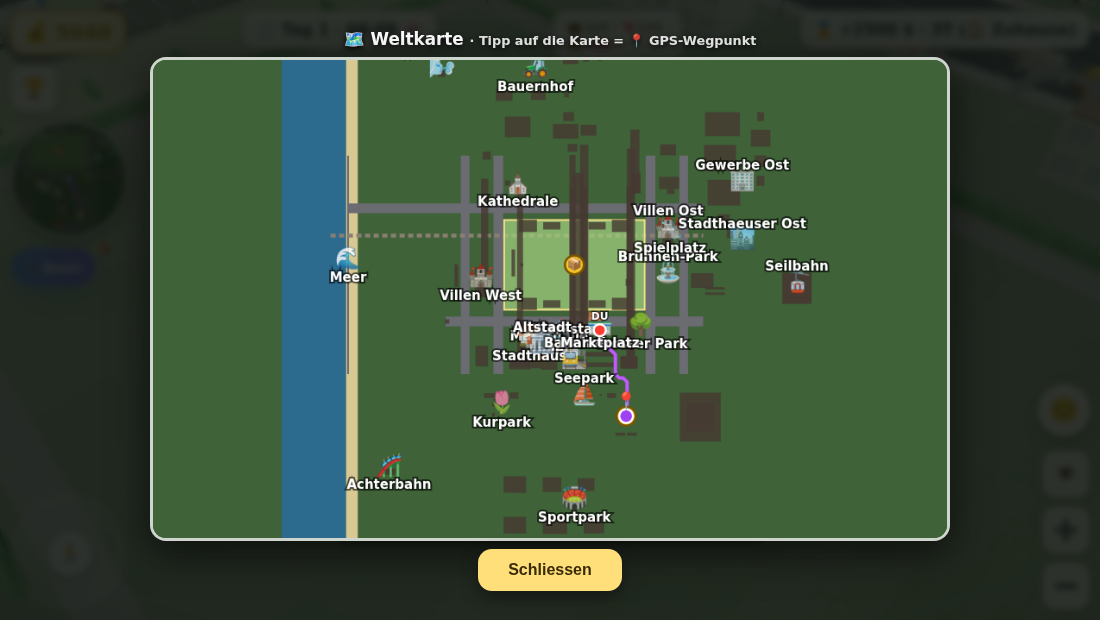
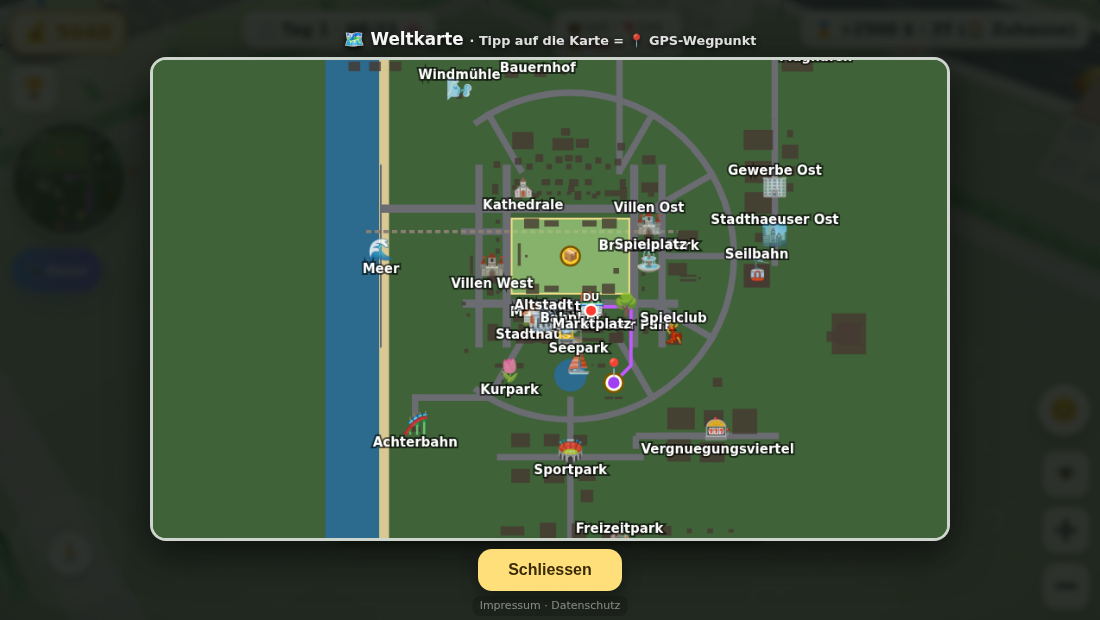
Die Mission, bei der man nicht wusste WANN (#2417) (#2417)
Statt wieder zu prüfen, die Missionen einmal wie ein Spieler durchgesehen.

ERST ZWEI ENTWARNUNGEN, BEIDE GEMESSEN

Alle 13 Missions-Zähler werden irgendwo erhöht — keine Mission ist
unerfüllbar. Und 11 von 13 haben einen Kartenmarker; die zwei ohne
(Emotes, Strassenmusik) sind es zu Recht, der Kommentar im Code sagt das
seit Langem.

DER BEFUND LIEGT GENAU DAZWISCHEN

Die Strassenmusik ist die einzige Mission mit einem Zeitfenster
(buskAvailable: 17-21 Uhr) — UND die einzige ohne Ort. Wer sie morgens
zieht, sieht die Aufgabe, keinen Marker, und findet den Knopf nirgends.
Es gab keine Stelle im Spiel, an der "ab 17 Uhr" stand.

Die Aufgabe sagt WAS, der Marker sagt WO — und WANN sagte niemand.

Jetzt steht das Fenster im Missionstext: "Spiele 1 perfekte
Strassenmusik-Show (17–21 Uhr)". Dort schaut der Spieler ohnehin hin.
Der Text wird beim Anlegen in den Spielstand kopiert; laufende Tage
behalten den alten, ab dem nächsten Tageswechsel steht das Fenster drin.

STEHENDE PRÜFUNG STATT EINMAL-BLICK

th-missmap.mjs prüft jetzt bei jedem Lauf, dass jede Mission einen Ort
hat — oder in einer Ausnahmeliste mit GRUND steht. Und die Gegenrichtung:
eine Ausnahme, die es nicht mehr braucht, wird gemeldet, damit die Liste
nicht verrottet.

Gegenprobe: einen Ort testweise aus MISS_ORTE entfernt → rot, mit
Namensnennung ("4 🛹 Lande {n} Airtime-Sprünge"), 9 ok / 1 Fehler.

th-missmap: 10 ok, 0 Fehler, 0 JS-Fehler.

Claude-Session: https://claude.ai/code/session_01GGjxkpYFvQGRnX9MAzUyAF

Changed region(s): [[0.2473, 0.0919, 0.7727, 0.8887], [0.7418, 0.4903, 0.8036, 0.5823], [0.4327, 0.95, 0.5564, 0.9806]]

diff --git a/traumhaus.html b/traumhaus.html
@@ -9695,7 +9695,14 @@ var MISS_POOL=[
  ["🛹","Lande {n} Airtime-Sprünge",3,function(){return stats.stunts||0;}],
  ["🥕","Fahre {n} Ernten ein",2,function(){return stats.ernten||0;}],
  ["🪑","Stelle {n} Möbel auf",3,function(){return stats.moebelGekauft||0;}],
- ["🎸","Spiele 1 perfekte Strassenmusik-Show",1,function(){return stats.buskPerfekt||0;}],
+ /* ⚠ ZEITFENSTER IN DEN TEXT. Diese Mission ist die einzige der dreizehn, die nur in
+    einem Zeitfenster geht (buskAvailable: 17-21 Uhr) — UND die einzige ohne Ort auf der
+    Karte, weil man ueberall spielen darf. Wer sie morgens zieht, sieht also die Aufgabe,
+    keinen Marker und nirgends den Knopf, und hat keine Moeglichkeit herauszufinden, dass
+    er bis 17 Uhr warten muss. Das "wann" gehoert damit dorthin, wo er hinschaut.
+    (Der Text wird beim Anlegen in den Spielstand kopiert — laufende Tage behalten den
+    alten, ab dem naechsten Tageswechsel steht das Fenster drin.) */
+ ["🎸","Spiele 1 perfekte Strassenmusik-Show (17–21 Uhr)",1,function(){return stats.buskPerfekt||0;}],
  ["😮","Mache {n} Emotes",4,function(){return window._emoteCount||0;}],
  ["🏅","Bestehe 1 Bauabnahme",1,function(){return stats.abnahmen||0;}],
  /* ⚠ NUR ANS ENDE anfuegen: missHeute speichert den Pool-INDEX im Spielstand —

diff --git a/spiele-dev/RUNBOOK-TRAUMHAUS.md b/spiele-dev/RUNBOOK-TRAUMHAUS.md
@@ -4142,3 +4142,39 @@ Danach: 844×390, 740×360, 932×430, 390×844, 1024×768 — **überall 0 Ziele
    Fehlalarme von selbst weg — und in Hochkant zeigt sich sauber, dass `#rotHint`
    („dreh dein Handy") **alle** Ziele abfängt. Fängt ein und dasselbe Element alle ab,
    ist es die gewollte Sperrschicht und kein Befund; das meldet das Werkzeug jetzt so.
+
+---
+
+## 2026-08-29 · Die Mission, bei der man nicht wusste WANN
+
+Statt wieder zu prüfen, habe ich die Missionen einmal wie ein Spieler durchgesehen.
+
+**Erst zwei Entwarnungen, beide gemessen:** Alle 13 Missions-Zähler werden irgendwo
+erhöht — keine Mission ist unerfüllbar. Und von den 13 haben 11 einen Kartenmarker; die
+zwei ohne (Emotes, Strassenmusik) sind es zu Recht, der Kommentar im Code sagt das seit
+Langem.
+
+### Der Befund liegt genau dazwischen
+
+Die Strassenmusik ist **die einzige Mission mit einem Zeitfenster** (`buskAvailable()`:
+17–21 Uhr) — **und die einzige ohne Ort**. Wer sie morgens zieht, sieht die Aufgabe,
+keinen Marker, und findet den Knopf nirgends. Es gab keine Stelle im Spiel, an der
+„ab 17 Uhr" stand.
+
+Die Aufgabe sagt *was*, der Marker sagt *wo* — und *wann* sagte niemand.
+
+Jetzt steht das Fenster im Missionstext selbst: „Spiele 1 perfekte Strassenmusik-Show
+**(17–21 Uhr)**". Dort schaut der Spieler ohnehin hin. (Der Text wird beim Anlegen in den
+Spielstand kopiert; laufende Tage behalten den alten, ab dem nächsten Tageswechsel steht
+das Fenster drin.)
+
+### Stehende Prüfung statt Einmal-Blick
+
+`th-missmap.mjs` prüft jetzt bei jedem Lauf, dass **jede** Mission einen Ort hat — oder
+in einer Ausnahmeliste mit **Grund** steht. Und die Gegenrichtung: eine Ausnahme, die es
+nicht mehr braucht (die Mission hat inzwischen einen Ort), wird gemeldet, damit die Liste
+nicht verrottet.
+
+Gegenprobe: einen Ort testweise aus `MISS_ORTE` entfernt →
+**❌ „4 🛹 Lande {n} Airtime-Sprünge", 9 ok / 1 Fehler.** Die Prüfung kann rot werden und
+benennt die Mission.
